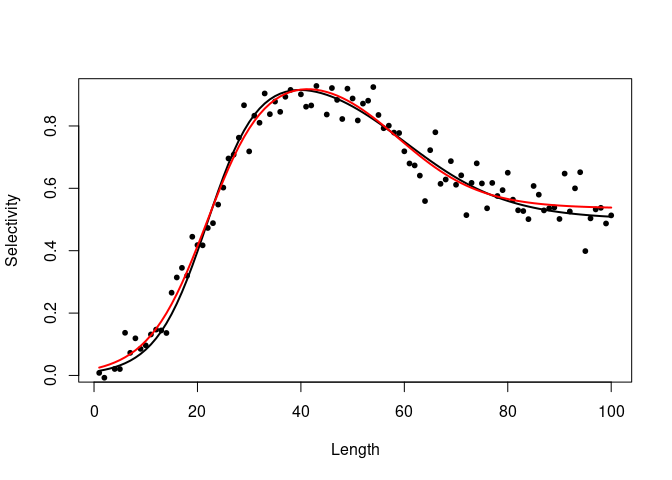
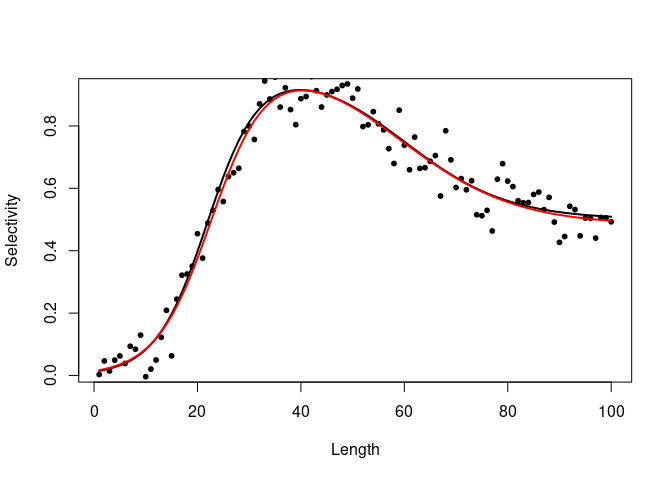
dubl

diff --git a/README.md b/README.md
@@ -29,6 +29,7 @@ is the product of two logistic curves and some of the parameterisations
 seem fairly intuitive while less so for others. The one used here is
 
 $$S\_L=\\frac{\\Omega\_{max}}{1+e^{(-\\alpha\_1\\cdot (L-\\beta\_1)}}\\cdot \\frac{1-\\Omega\_{min}}{1+e^{(-\\alpha\_2\\cdot (L-\\beta\_2))}}$$
+![](/home/daniel/github/dublogistic/dublogistic.gif)
 
 Where *S*<sub>*L*</sub> is the selectivity at length, L is length,
 *α*<sub>1</sub> is the slope of the first (ascending) logistic curve
